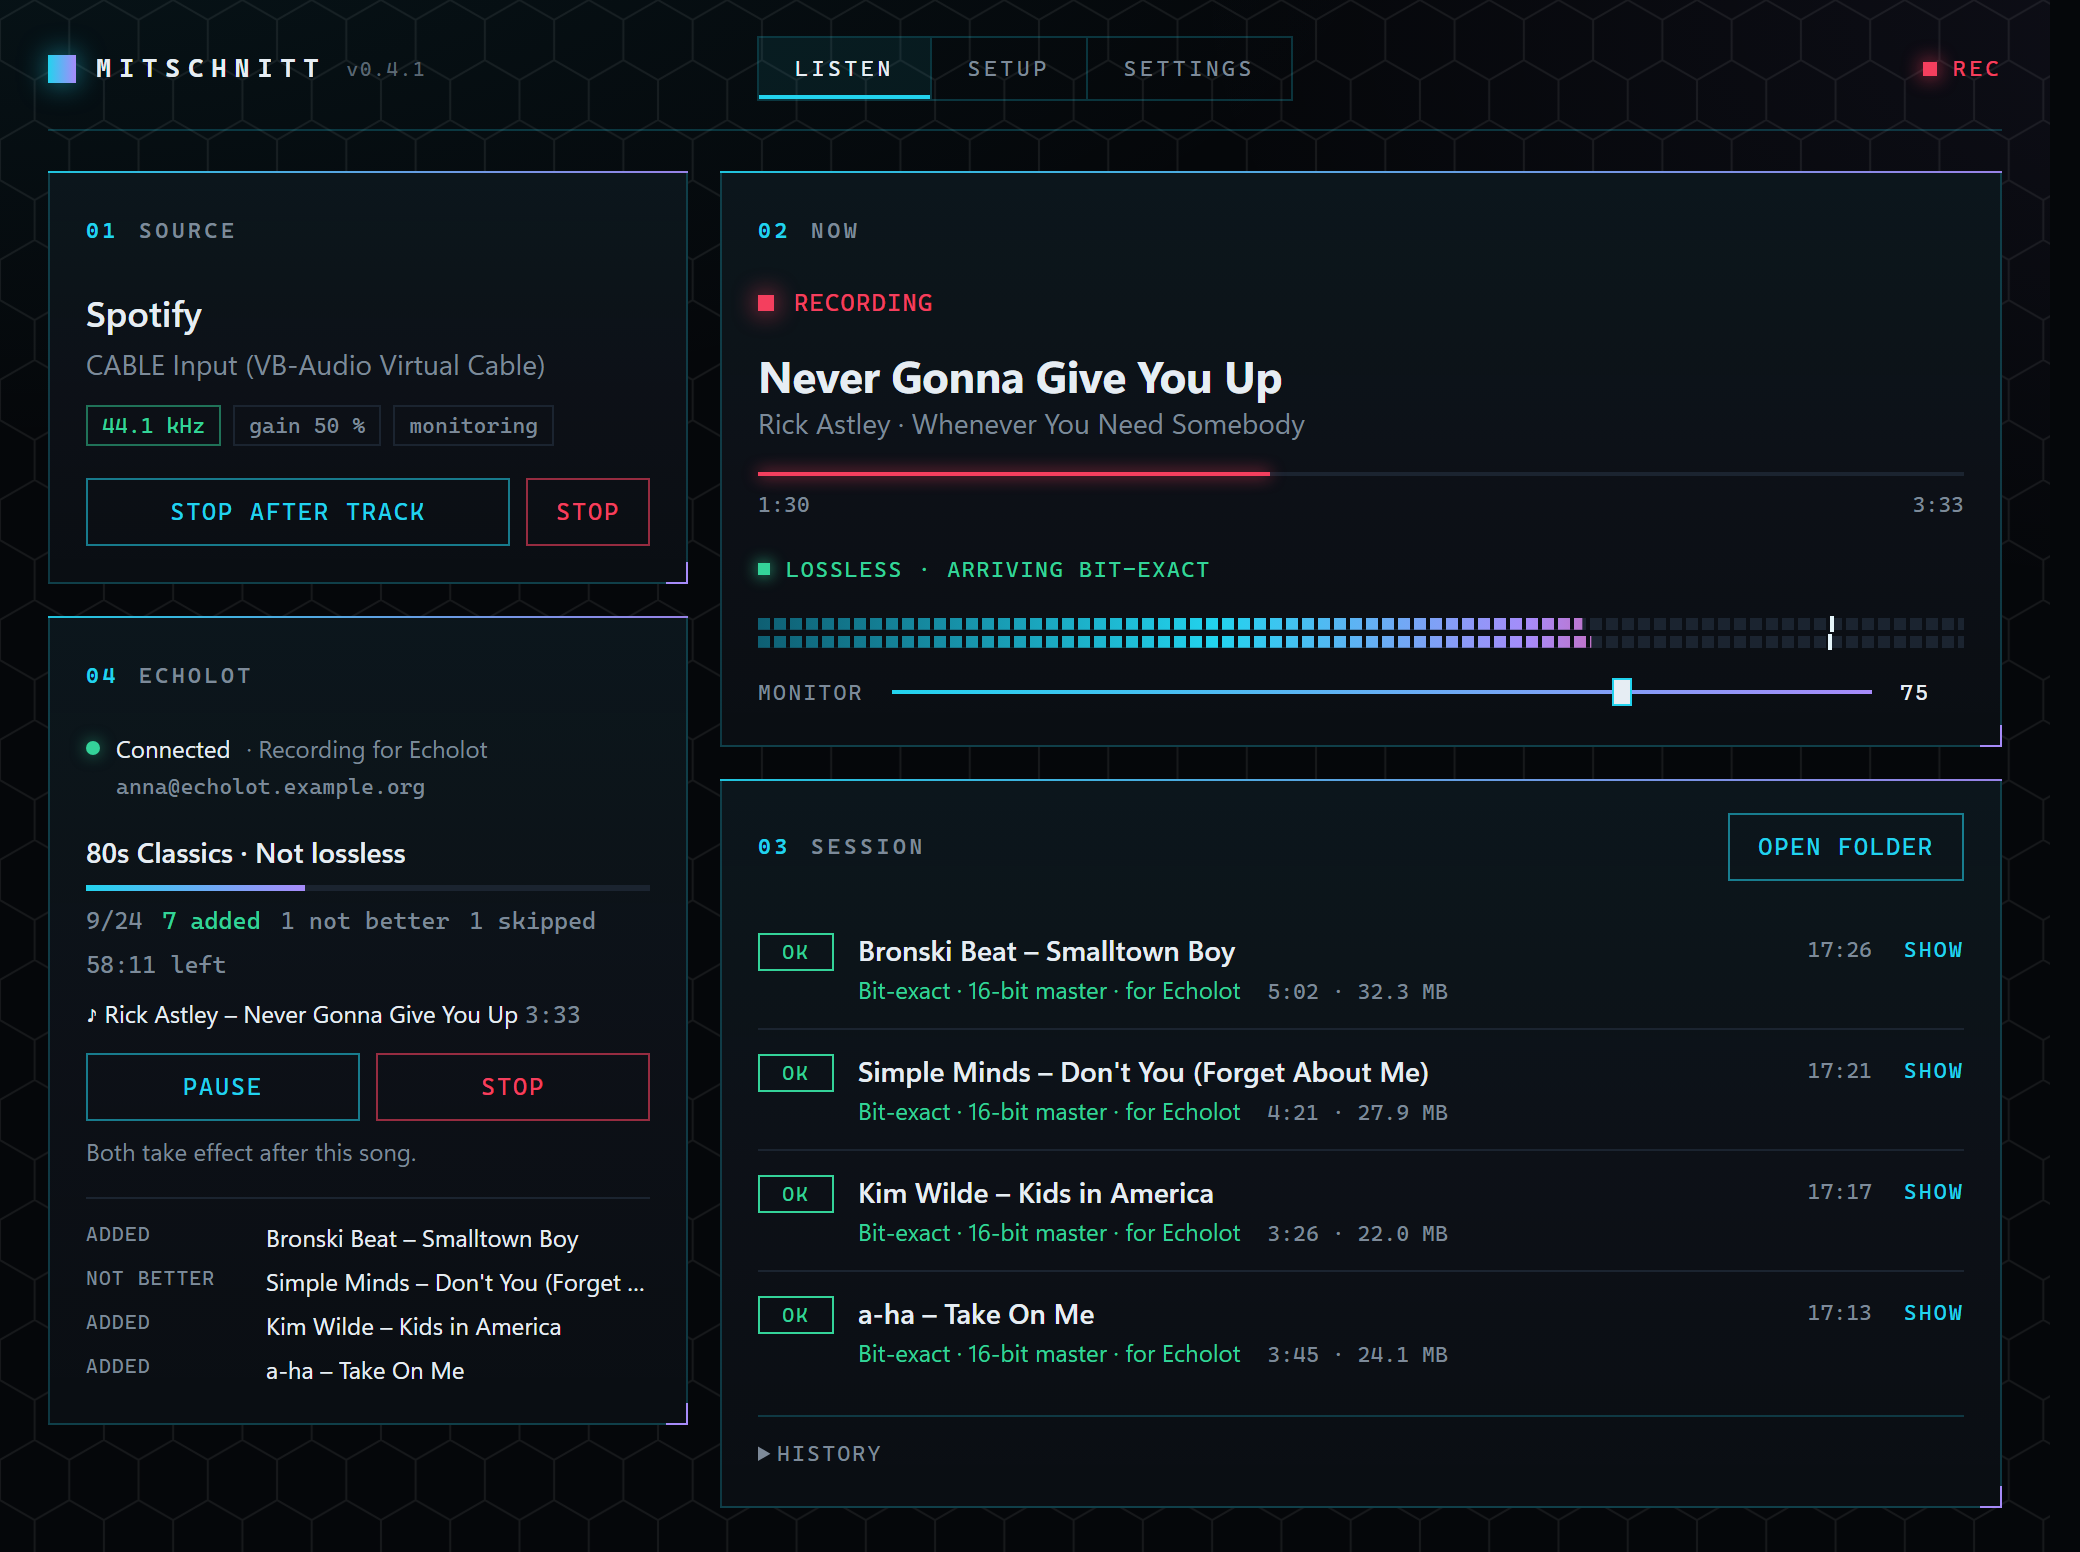
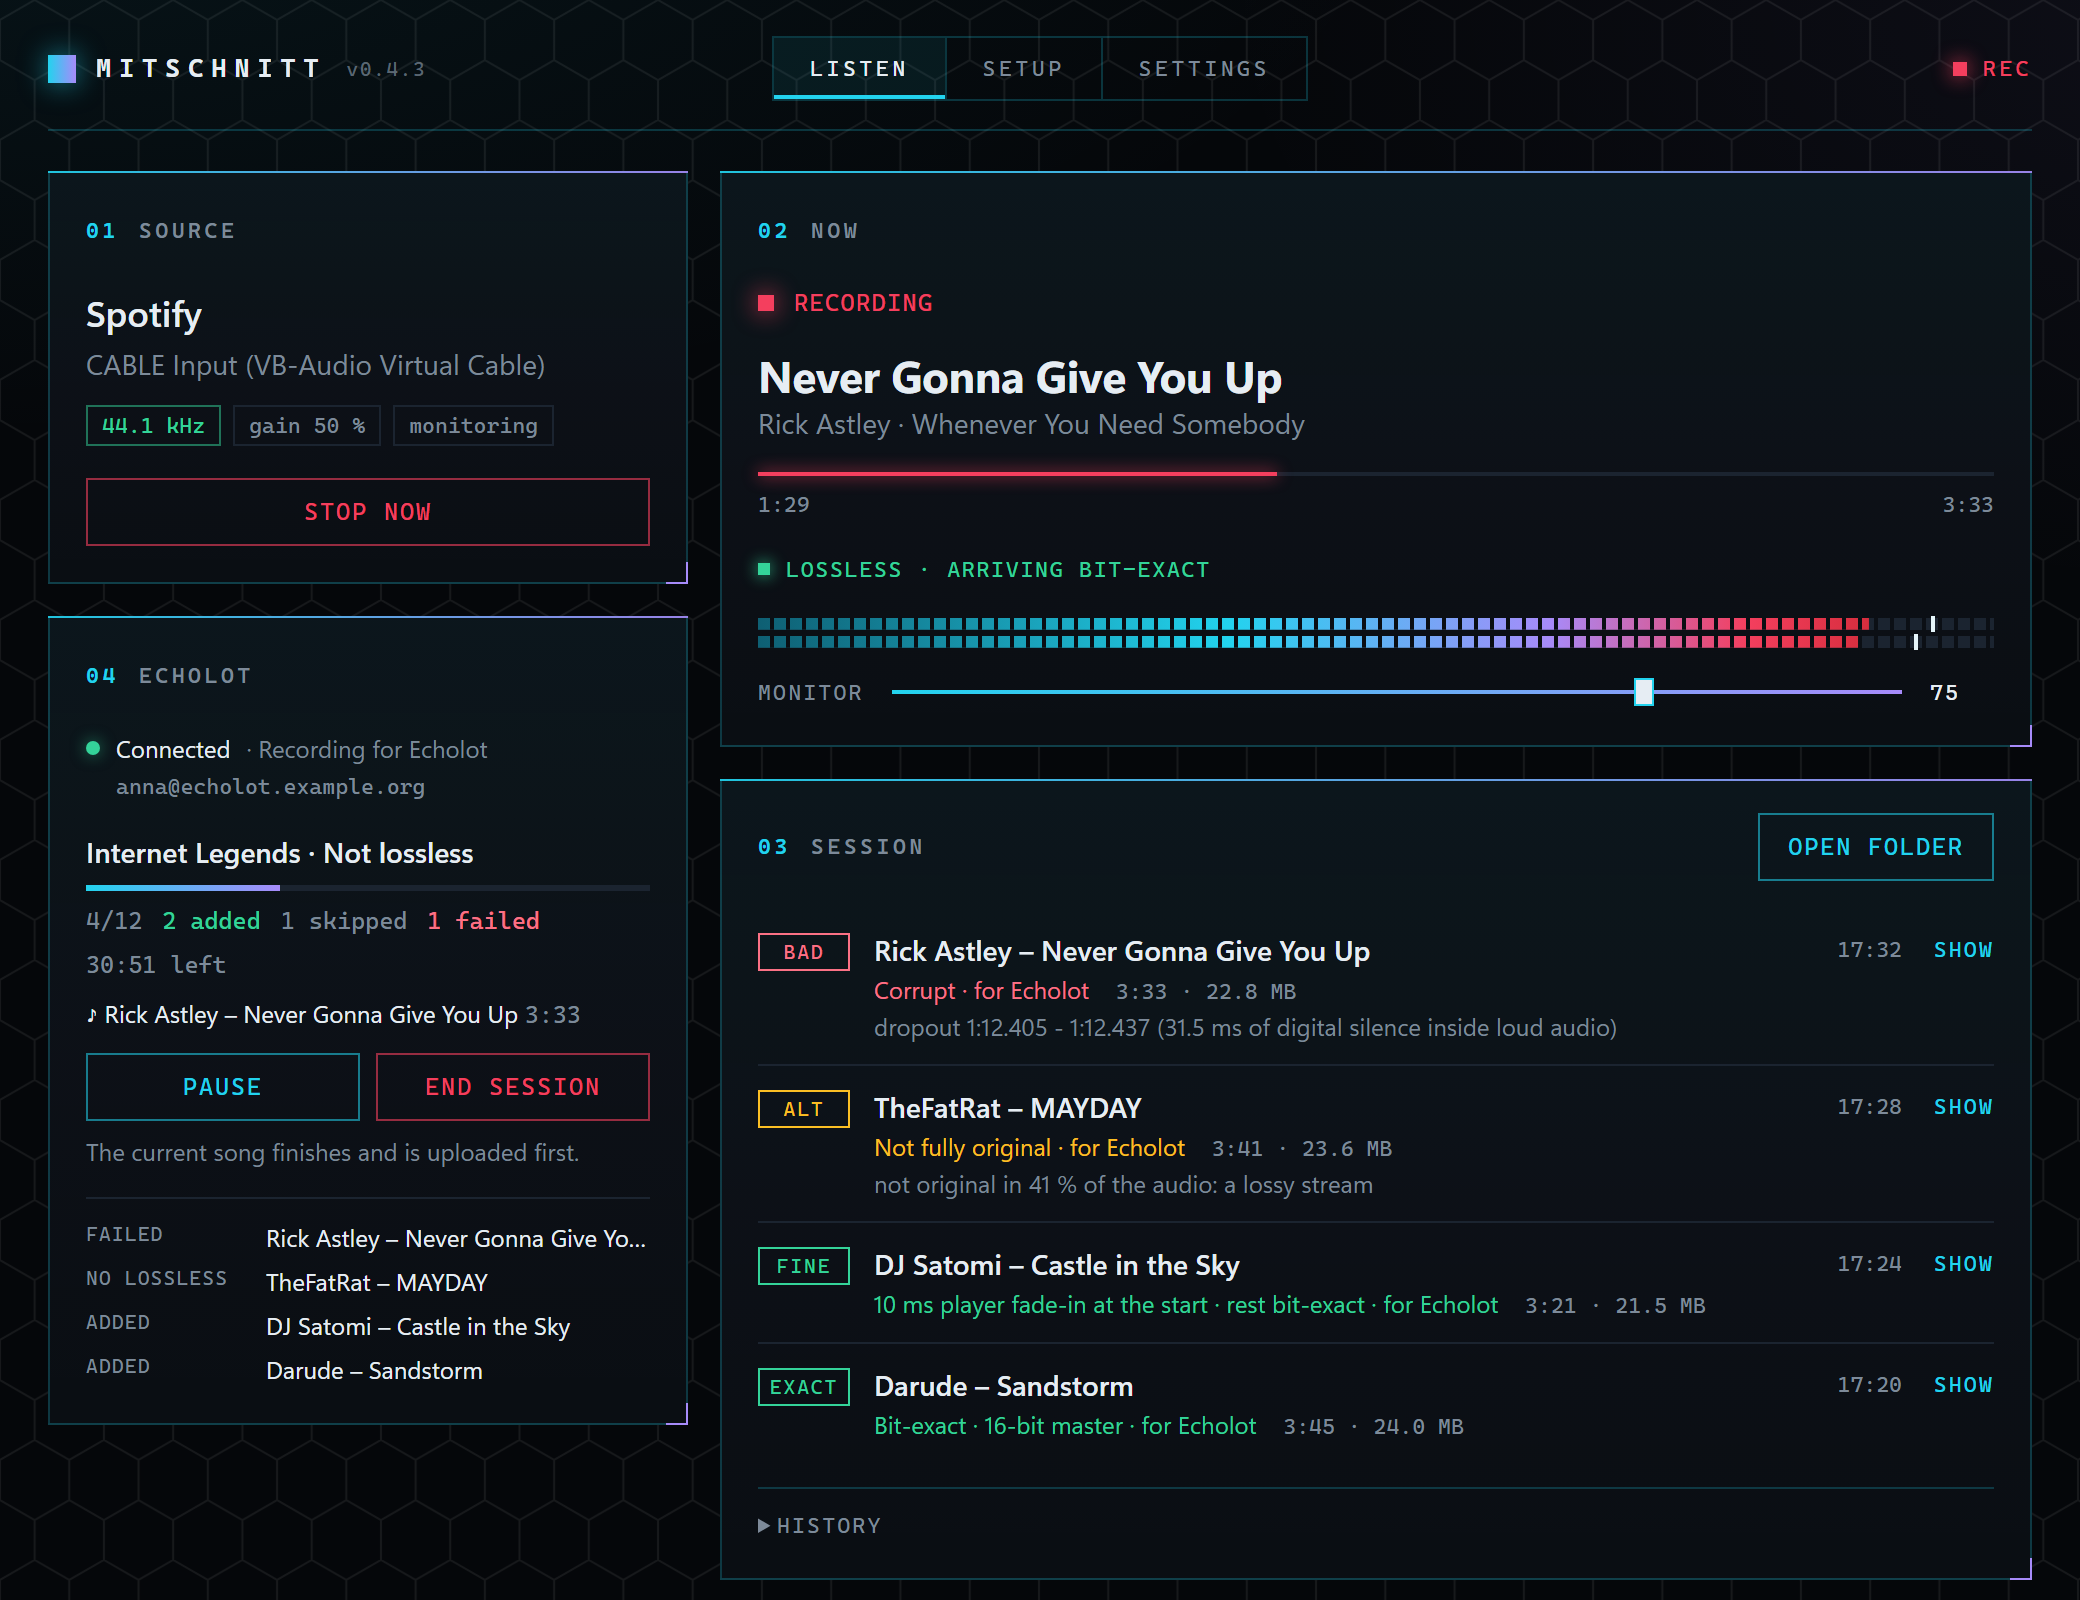
Screenshot from the demo, rebuilt on every release

diff --git a/app/src/demo/tauri.ts b/app/src/demo/tauri.ts
@@ -49,20 +49,20 @@ const checks: Check[] = [
   { id: "autoplay", title: "Autoplay off", state: "ok", detail: "Nothing starts by itself after a song", fix: null },
 ];
 
-// What Echolot sent so far: 9 of 24 songs answered.
+// What Echolot sent so far: 4 of 12 songs answered.
 const session: EcholotSession = {
-  title: "80s Classics · Not lossless",
+  title: "Internet Legends · Not lossless",
   state: "running",
   reason: "",
-  total: 24,
-  done: 9,
-  filed: 7,
-  not_better: 1,
+  total: 12,
+  done: 4,
+  filed: 2,
+  not_better: 0,
   skipped: 1,
-  failed: 0,
-  minutes_left: 59,
-  seconds_total: 5_712,
-  seconds_done: 2_131,
+  failed: 1,
+  minutes_left: 31,
+  seconds_total: 2_820,
+  seconds_done: 880,
 };
 let snapshot: RecorderSnapshot = {
   connection: "connected",
@@ -101,46 +101,42 @@ const history: HistoryRecord[] = [
   record(6, "New Order", "Blue Monday", [7, 29], 16, "filed"),
 ];
 
-// This run so far, oldest first: [minutes ago, track, Echolot's answer].
-const earlierSongs: [number, Track, string][] = [
-  [18, { title: "Take On Me", artist: "a-ha", album: "Hunting High and Low", duration_ms: 225_280 }, "filed"],
-  [14, { title: "Kids in America", artist: "Kim Wilde", album: "Kim Wilde", duration_ms: 206_000 }, "filed"],
-  [10, { title: "Don't You (Forget About Me)", artist: "Simple Minds", album: "Don't You (Forget About Me)", duration_ms: 261_000 }, "not_better"],
-  [5, { title: "Smalltown Boy", artist: "Bronski Beat", album: "The Age of Consent", duration_ms: 302_000 }, "filed"],
+// This run so far, oldest first: one of each label. Rick's first try had a dropout, so he plays again now.
+type Saved = { verdict: "info" | "altered" | "corrupt"; master: "bit16_exact" | "bit16_partly" | "bit24"; exact: boolean; faded: boolean; issues: string[] };
+const exact: Saved = { verdict: "info", master: "bit16_exact", exact: true, faded: false, issues: [] };
+const earlierSongs: [number, Track, Saved, string, string][] = [
+  [16, { title: "Sandstorm", artist: "Darude", album: "Before the Storm", duration_ms: 225_000 }, exact, "filed", "added to the library"],
+  [12, { title: "Castle in the Sky", artist: "DJ Satomi", album: "Castle in the Sky", duration_ms: 201_000 }, { ...exact, verdict: "altered", master: "bit16_partly", exact: false, faded: true }, "filed", "added to the library"],
+  [8, { title: "MAYDAY", artist: "TheFatRat", album: "MAYDAY", duration_ms: 221_000 }, { ...exact, verdict: "altered", master: "bit16_partly", exact: false, issues: ["not original in 41 % of the audio: a lossy stream"] }, "lossy_only", "no lossless stream"],
+  [4, rick, { ...exact, verdict: "corrupt", issues: ["dropout 1:12.405 - 1:12.437 (31.5 ms of digital silence inside loud audio)"] }, "stalled", "damaged, played again"],
 ];
-
-const resultDetail: Record<string, string> = { filed: "added to the library", not_better: "the library copy is as good" };
 
 function start() {
   emit("listening", { app: "Spotify", device: "CABLE Input (VB-Audio Virtual Cable)", rate: 44_100 });
-  for (const [ago, track, result] of earlierSongs) {
+  for (const [ago, track, saved, result, detail] of earlierSongs) {
     earlier(ago, () => {
-      emit("update", { kind: "saved", track, file: `${out}\\${track.artist} - ${track.title}.flac`, size: Math.round((track.duration_ms / 1000) * 112_000), verdict: "info", master: "bit16_exact", exact: true, faded: false, issues: [], echolot: true });
-      emit("echolot", { kind: "song", job: track, result, detail: resultDetail[result] });
+      const kept = saved.verdict === "info" || saved.faded;
+      emit("update", { kind: "saved", track, file: `${out}\\${kept ? "" : "Not taken\\"}${track.artist} - ${track.title}.flac`, size: Math.round((track.duration_ms / 1000) * 112_000), ...saved, echolot: true });
+      emit("echolot", { kind: "song", job: track, result, detail });
     });
   }
   emit("update", { kind: "monitor_volume", volume: 0.42 });
   emit("echolot", { kind: "snapshot", snapshot });
 
-  // The song plays on: 1:27 in, levels of a loud pop master.
+  // Rick plays on, 1:27 in. Loud: the meters near 90 %, the peak marks near 95 %, the channels a little apart.
   let recorded = 87_000;
   let last = performance.now();
-  const smooth = [0.25, 0.25];
   setInterval(() => {
     const now = performance.now();
     recorded = (recorded + (now - last)) % rick.duration_ms;
     last = now;
-    const beat = Math.pow(Math.max(0, Math.sin((recorded / 60_000) * 113 * Math.PI)), 6);
-    const level = [0, 1].map((c) => {
-      smooth[c] += (0.18 + 0.1 * beat + 0.05 * Math.random() - smooth[c]) * 0.35;
-      return smooth[c];
-    });
+    const wobble = () => 1 + 0.02 * (Math.random() - 0.5);
     const status: Status = {
       phase: "recording",
       track: rick,
       recorded_ms: recorded,
-      level: [Math.min(0.97, level[0] * 2.6 + 0.1 * beat), Math.min(0.97, level[1] * 2.5 + 0.1 * beat)],
-      rms: [level[0], level[1]],
+      level: [0.8 * wobble(), 0.75 * wobble()],
+      rms: [0.63 * wobble(), 0.6 * wobble()],
       grid: { bit24: 1 },
     };
     emit("update", { kind: "status", status });
@@ -196,6 +192,6 @@ setTimeout(async () => {
 // `?shot`: for a headless screenshot, whose clock runs ahead of CSS transitions (they would stay at their start).
 if (new URLSearchParams(location.search).has("shot")) {
   const style = document.createElement("style");
-  style.textContent = "*, *::before, *::after { transition: none !important; animation: none !important; }";
+  style.textContent = "*, *::before, *::after { transition: none !important; animation: none !important; } html { scrollbar-gutter: auto !important; }";
   document.head.append(style);
 }
